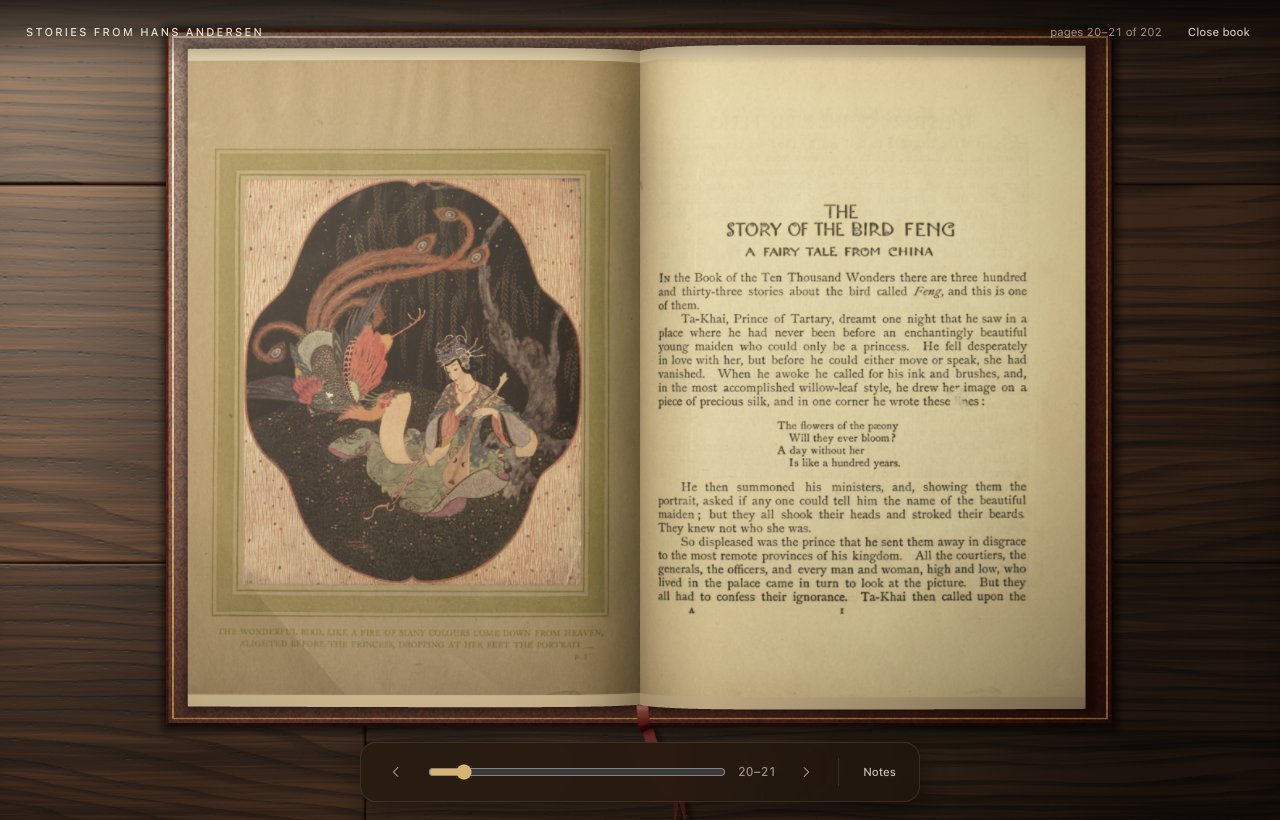
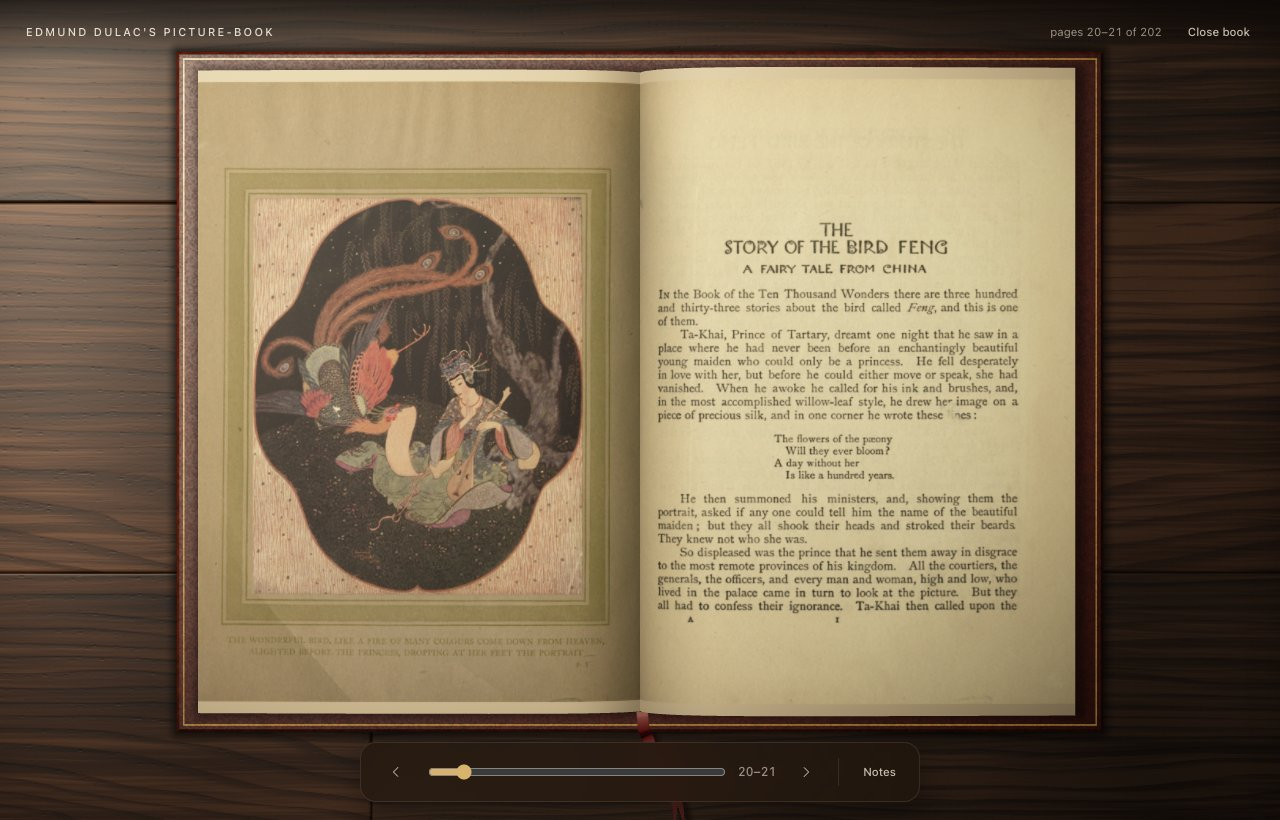
fix(reader): keep the book clear of the header text
The camera's top inset was 24 px, so the board's top edge sat under the
header and the title overlapped it. The top inset is now 46 px and the
bottom 82 px, which clears the title and the bar with the book only slightly
smaller. docs/screenshots/ are regenerated.

diff --git a/src/features/reader/engine/gesture.test.ts b/src/features/reader/engine/gesture.test.ts
@@ -1,5 +1,5 @@
 import { describe, expect, it } from "vitest";
-import { computeCamera } from "./camera";
+import { computeCamera, INSETS } from "./camera";
 import {
   cornerAt, dragProgress, gripAt, hoverOnPage, onPageAt, pastSlop, peekStays, pickLocal, settleFor, tapDirection, TAP_SLOP,
   trackDrag, turnCompletes, type Drag, type Tap,
@@ -69,7 +69,7 @@ describe("cornerAt", () => {
 describe("pickLocal", () => {
   it("hits the book centre at the canvas centre", () => {
     const cam = computeCamera(1000, 800, makeBook(1.4, 10), 18);
-    const [x] = pickLocal(cam.inv, 1000, 800, 500, 24 + (800 - 24 - 88) / 2);
+    const [x] = pickLocal(cam.inv, 1000, 800, 500, INSETS.top + (800 - INSETS.top - INSETS.bot) / 2);
     expect(Math.abs(x)).toBeLessThan(0.01);
   });
 });

diff --git a/src/features/reader/engine/camera.ts b/src/features/reader/engine/camera.ts
@@ -4,8 +4,8 @@
 import type { Book } from "./geometry";
 import { PI, invert, lookAt, multiply, perspective, type Mat4, type Vec3 } from "./math";
 
-/** CSS pixels kept clear around the book: the header, the bottom bar, and the sides. */
-export const INSETS = { top: 24, bot: 88, side: 28 };
+/** CSS pixels kept clear around the book: the header text, the bottom bar, and the sides. */
+export const INSETS = { top: 46, bot: 82, side: 28 };
 
 /** View-projection, its inverse, the eye position, and the pixels-per-world-unit scale. */
 export type Camera = { VP: Mat4; inv: Mat4; eye: Vec3; k: number };
